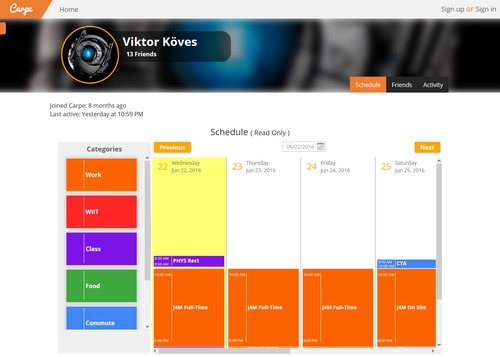
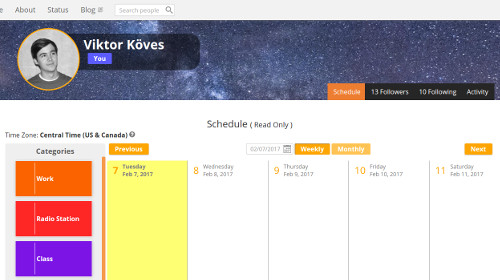
Updated Carpe portfolio images

diff --git a/portfolio.html b/portfolio.html
@@ -20,7 +20,7 @@ pageClass: "filter-transition"
 			subtitle: "Scheduling made social",
 			description: "Carpe is an online schduler designed to make organizing easier and more socially connected. With Carpe, you can follow people to see and track their schedules, so you'll stay up to date. Planning everything from lunch-time hangouts to business meetings is now faster and pain-free.",
 			thumbnail: "images/portfolio/thumbs/carpe.jpg",
-			gallery: ["images/projects/carpe1.png", "images/projects/carpe2.png"],
+			gallery: ["images/projects/Carpe (1).jpg", "images/projects/Carpe (2).jpg", "images/projects/Carpe (3).jpg"],
 			tools: [
 					"Ruby on Rails",
 					"jQuery UI",
